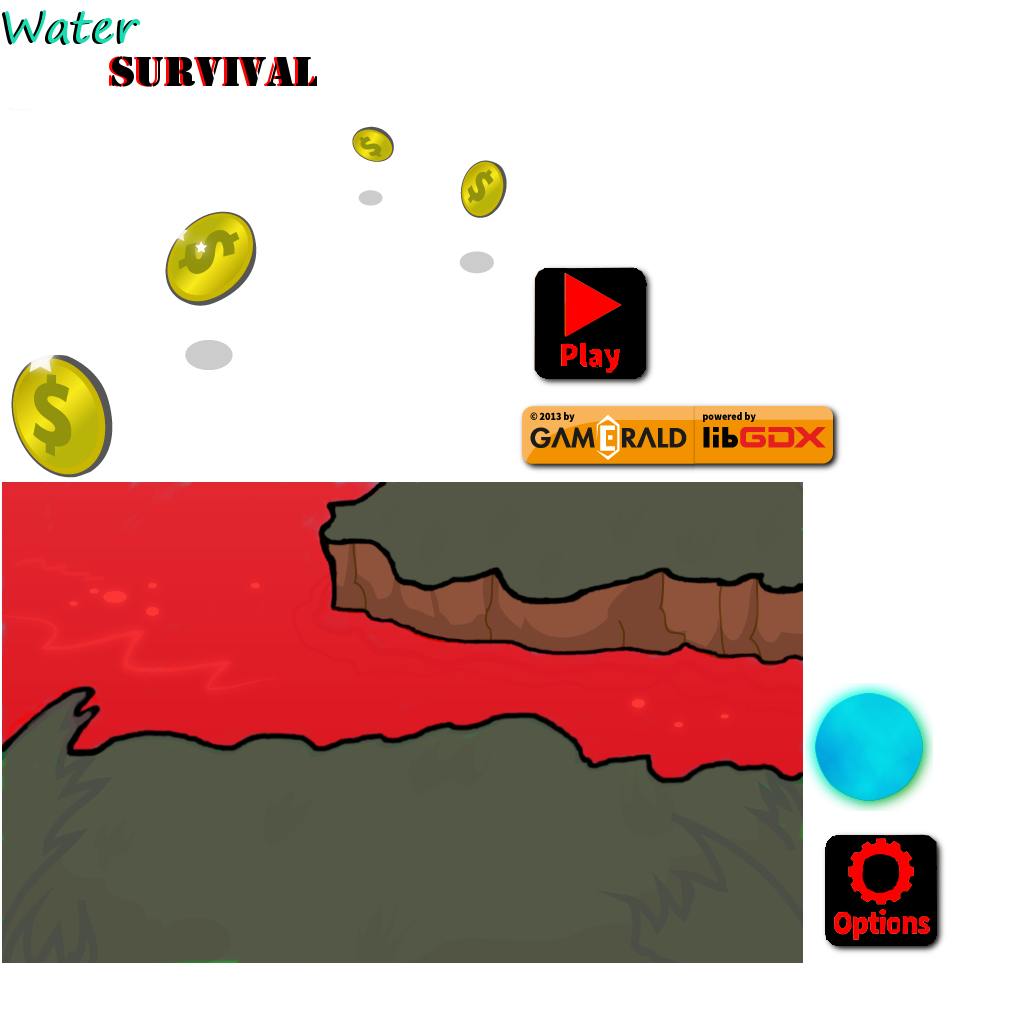
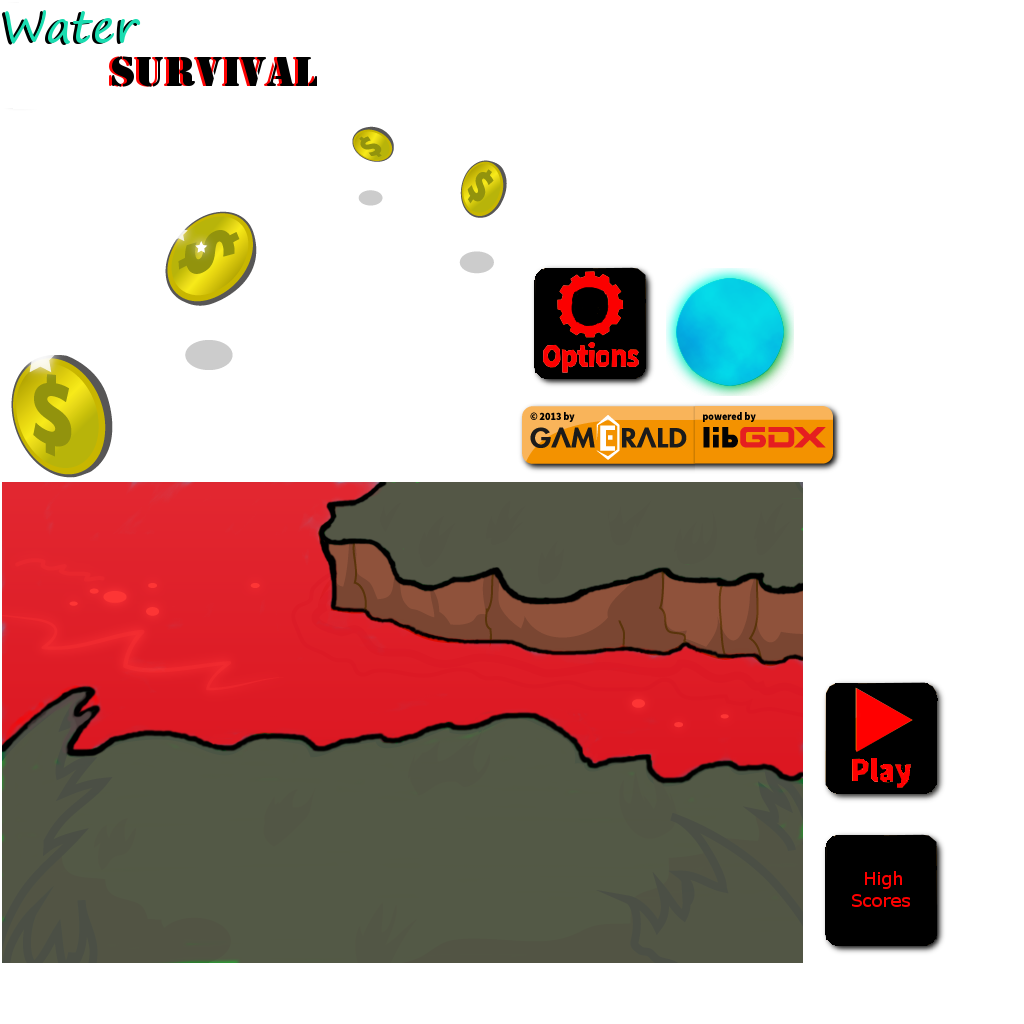
Added some new assets and began adding the highscores
Getting a bizarre error with the highscores buttons. Assuming it is something with either the atlas or the .json file

Changed region(s): [[0.7812, 0.6562, 0.9375, 0.9375], [0.5312, 0.25, 0.7812, 0.4062]]

diff --git a/core/src/com/rebok/gdx/game/screens/MenuScreen.java b/core/src/com/rebok/gdx/game/screens/MenuScreen.java
@@ -45,6 +45,11 @@ public class MenuScreen extends AbstractGameScreen {
 	private Image imgBunny;
 	private Button btnMenuPlay;
 	private Button btnMenuOptions;
+	
+	//highscore stuff
+	private Button highScores;
+	private boolean highScoreSelected = false;
+	private Window highScoresWindow;
 	// options
 	private Window winOptions;
 	private TextButton btnWinOptSave;
@@ -83,7 +88,7 @@ public class MenuScreen extends AbstractGameScreen {
 	    }
 	    stage.act(deltaTime);
 	    stage.draw();
-	    stage.setDebugAll(true); //changed from the book
+	    stage.setDebugAll(false); //changed from the book
 	}
 	
 	/**
@@ -246,6 +251,7 @@ public class MenuScreen extends AbstractGameScreen {
 		Table layerLogos = buildLogosLayer();
 		Table layerControls = buildControlsLayer();
 		Table layerOptionsWindow = buildOptionsWindowLayer();
+		Table layerHighScoreWindow = buildHighScoreWindowLayer();
 		// assemble stage for menu screen
 		stage.clear();
 		Stack stack = new Stack();
@@ -256,6 +262,7 @@ public class MenuScreen extends AbstractGameScreen {
 		stack.add(layerLogos);
 		stack.add(layerControls);
 		stage.addActor(layerOptionsWindow);
+		stage.addActor(layerHighScoreWindow);
 	}
 	
 	/**
@@ -333,10 +340,6 @@ public class MenuScreen extends AbstractGameScreen {
 	 */
 	private Table buildObjectsLayer () {
 	    Table layer = new Table();
-	    // + Coins
-	    imgCoins = new Image(skinCanyonBunny, "coins");
-	    layer.addActor(imgCoins);
-	    imgCoins.setPosition(135, 80);
 	    // + Bunny
 	    imgBunny = new Image(skinCanyonBunny, "bunny");
 	    layer.addActor(imgBunny);
@@ -360,6 +363,28 @@ public class MenuScreen extends AbstractGameScreen {
 		layer.add(imgInfo).bottom();
 		if (debugEnabled) layer.debug();
 		return layer;
+	}
+	
+	/**
+	 * Load the highscores
+	 */
+	private void loadHighScore(){
+		
+	}
+	
+	/**
+	 * When the highscore button was pressed
+	 */
+	public void onHighScoreClicked(){
+		if(!highScoreSelected){
+			loadHighScore();
+			btnMenuPlay.setVisible(false);
+			btnMenuOptions.setVisible(false);
+			//winOptions.setVisible(true);
+		}else{
+			btnMenuPlay.setVisible(true);
+			btnMenuOptions.setVisible(true);
+		}
 	}
 	
 	/**
@@ -392,6 +417,19 @@ public class MenuScreen extends AbstractGameScreen {
 		}
 		});
 		
+		layer.bottom();
+		// + Highscores Button
+		highScores = new Button(skinCanyonBunny, "highscores");
+		layer.add(highScores);
+		highScores.addListener(new ChangeListener() {
+			
+		@Override
+		public void changed (ChangeEvent event, Actor actor) {
+		    onHighScoreClicked();
+		}
+		});
+		
+		
 		if (debugEnabled) layer.debug();
 		return layer;
 	}
@@ -420,6 +458,23 @@ public class MenuScreen extends AbstractGameScreen {
 		// Move options window to bottom right corner
 		winOptions.setPosition(Constants.VIEWPORT_GUI_WIDTH - winOptions.getWidth() - 50, 50);
 		return winOptions;
+	}
+	
+	/**
+	 * Build the window layer
+	 * @return
+	 */
+	private Table buildHighScoreWindowLayer () {
+		highScoresWindow = new Window("HighScores", skinLibgdx);
+		// Make options window slightly transparent
+		highScoresWindow.setColor(1, 1, 1, 0.8f);
+		// Hide options window by default
+		highScoresWindow.setVisible(false);
+		// Let TableLayout recalculate widget sizes and positions
+		highScoresWindow.pack();
+		// Move options window to bottom right corner
+		highScoresWindow.setPosition(Constants.VIEWPORT_GUI_WIDTH / 2, 50); //center bottom
+		return highScoresWindow;
 	}
 	
 	/**
